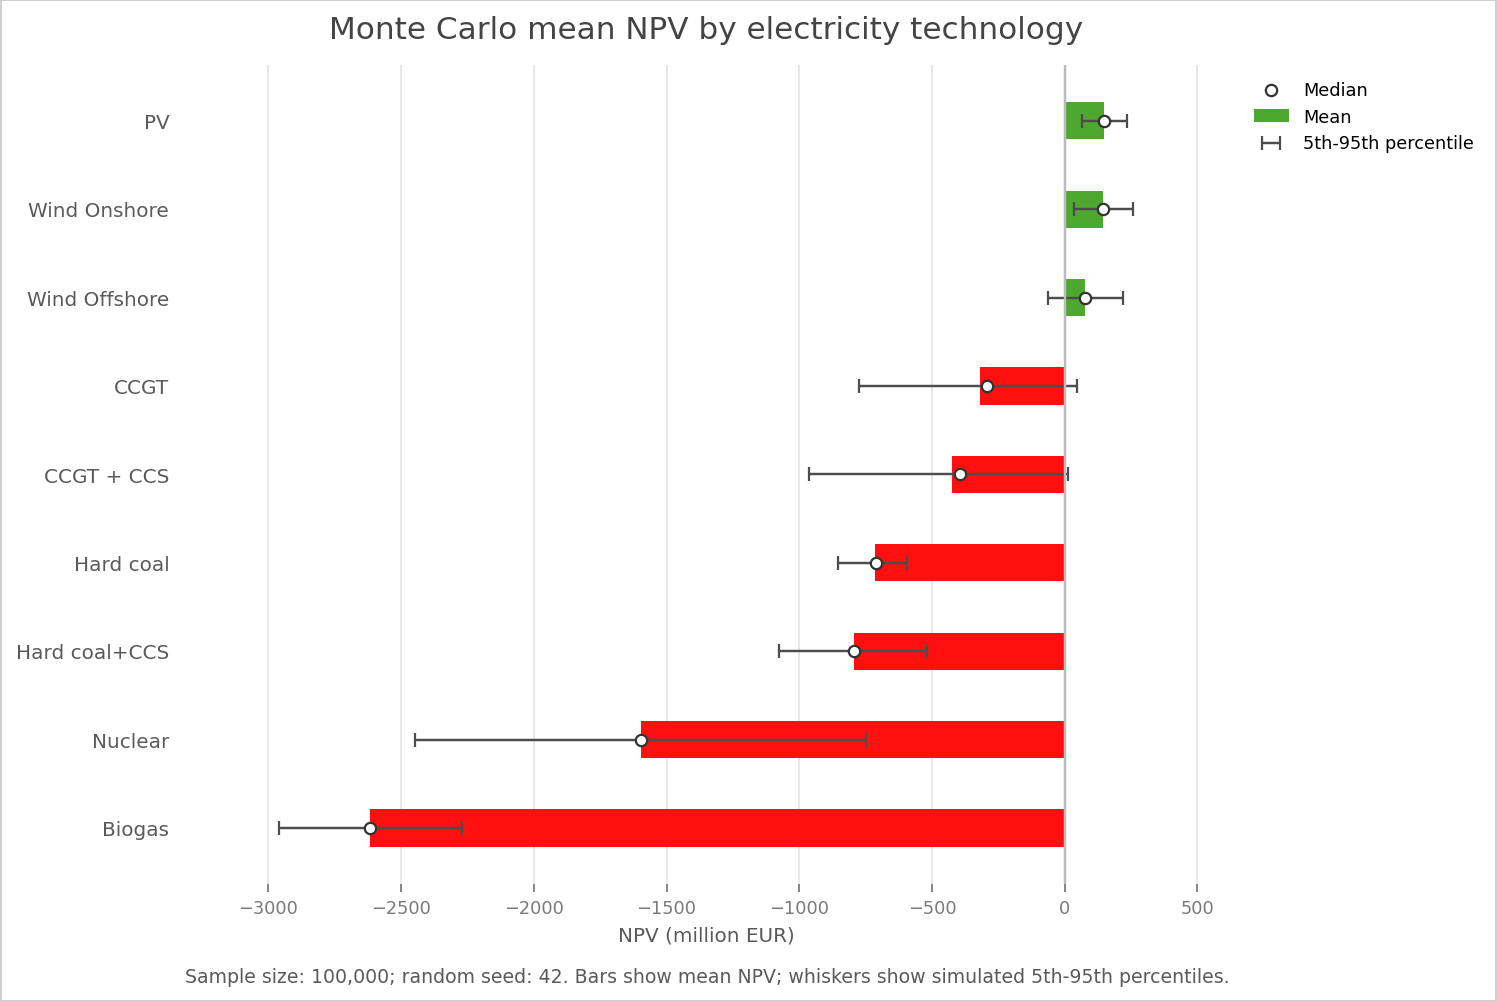
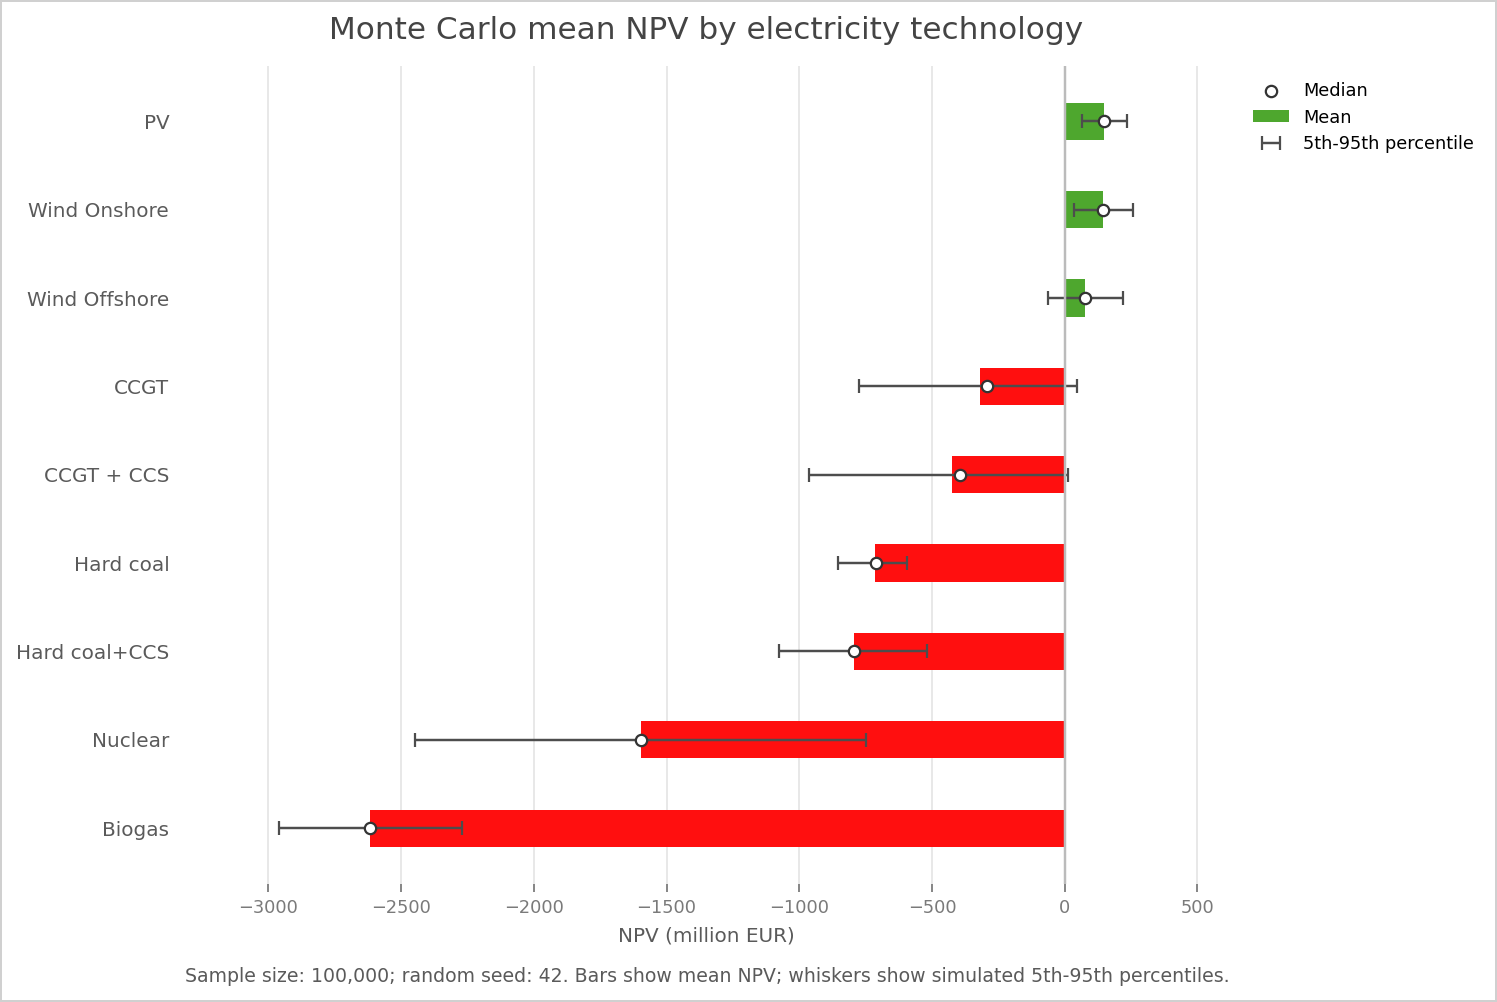
"Plotting and figure fine tunning"

diff --git a/src/electricity/electricity_npv_summary_figures.py b/src/electricity/electricity_npv_summary_figures.py
@@ -278,6 +278,7 @@ def save_electricity_mean_npv_outputs(
                 processed_data_dir=processed_data_dir,
                 run_date=output_date,
                 sector_name=sector_name,
+                random_seed=random_seed,
                 save_ranking_csv=save_ranking_csv,
                 save_ranking_plots=save_ranking_plots,
             )
@@ -327,6 +328,7 @@ def save_electricity_npv_ranking_outputs(
     processed_data_dir: Path,
     run_date: date | None = None,
     sector_name: str = "Electricity",
+    random_seed: int | None = None,
     save_ranking_csv: bool = True,
     save_ranking_plots: bool = True,
 ) -> tuple[Path, ...]:
@@ -365,6 +367,7 @@ def save_electricity_npv_ranking_outputs(
                     run_date=output_date,
                 ),
                 title="Monte Carlo NPV Ranking",
+                random_seed=random_seed,
             )
         )
 
@@ -403,6 +406,7 @@ def generate_electricity_npv_rankings(
             processed_data_dir=processed_data_dir or root / "data" / "processed",
             run_date=run_date,
             sector_name=sector_name,
+            random_seed=random_seed,
             save_ranking_csv=save_ranking_csv,
             save_ranking_plots=save_ranking_plots,
         )
@@ -635,6 +639,7 @@ def main() -> None:
                     raw_data_dir=args.raw_data_dir,
                     processed_data_dir=args.processed_data_dir,
                     sector_name=args.sector_name,
+                    random_seed=args.random_seed,
                     save_ranking_csv=save_ranking_csv,
                     save_ranking_plots=save_ranking_plots,
                 ),

diff --git a/src/npv_summary_plots.py b/src/npv_summary_plots.py
@@ -196,6 +196,7 @@ def plot_average_rank_bars(
     ranking_summary: pd.DataFrame,
     output_path: Path,
     title: str = "Monte Carlo NPV Ranking",
+    random_seed: int | None = None,
 ) -> Path:
     """Save an average-rank chart with rank-frequency counts."""
 
@@ -339,7 +340,8 @@ def plot_average_rank_bars(
         (
             f"Ranks are calculated within each Monte Carlo simulation by NPV "
             f"(rank 1 = highest NPV, rank {int(max_rank)} = lowest NPV). "
-            f"Sample size: {n_simulations:,} simulations."
+            f"Sample size: {n_simulations:,} simulations"
+            f"{f'; random seed: {random_seed}' if random_seed is not None else ''}."
         ),
         fontsize=8.5,
         color="#5a5a5a",

diff --git a/CHANGELOG.md b/CHANGELOG.md
@@ -1,3 +1,41 @@
+## 2026-06-04 17:27 — Add random seed note to ranking plot
+
+### User request
+
+Add the random seed to the Monte Carlo NPV ranking plot, like the mean NPV plot already does.
+
+### Files changed (if needed)
+
+- `src/npv_summary_plots.py` — added an optional `random_seed` argument to the ranking plot helper and included it in the explanatory note.
+- `src/electricity/electricity_npv_summary_figures.py` — passed the configured random seed through to the ranking plot helper.
+- `figures/2026-06-04-Average_NPV_Rank_Electricity.png` — regenerated the ranking figure with the seed note.
+- `CHANGELOG.md` — added this implementation entry.
+
+### What was implemented
+
+- Updated the bottom note of the ranking figure to include the random seed when one is provided.
+- Threaded `random_seed` through the electricity ranking-output generation paths, including CLI generation and programmatic generation.
+- Kept the ranking calculation and summary values unchanged.
+
+### Verification (if needed)
+
+- Commands run:
+  - `PYTHONPYCACHEPREFIX=/private/tmp/masterthesis_pycache PYTHONPATH=src /opt/anaconda3/envs/master-thesis/bin/python -m py_compile src/npv_summary_plots.py src/electricity/electricity_npv_summary_figures.py`
+  - `PYTHONPYCACHEPREFIX=/private/tmp/masterthesis_pycache MPLCONFIGDIR=/private/tmp/masterthesis_mpl PYTHONPATH=src /opt/anaconda3/envs/master-thesis/bin/python -m electricity.electricity_npv_summary_figures --kind mean --no-data --ranking-output plots`
+- Result:
+  - Passed.
+  - The regenerated ranking plot was visually inspected and now includes `random seed: 42` in the bottom explanatory note.
+
+### Reproducibility notes
+
+- No model assumptions, parameters, sample size, ranking logic, or NPV calculations were changed.
+- The regenerated ranking figure uses the default 100,000-simulation electricity run with seed `42`.
+- The command used `--no-data`, so no CSV outputs were regenerated.
+
+### Next suggested step
+
+Send the second requested change so it can be handled in the same focused way.
+
 ## 2026-06-04 17:16 — Reuse notebook-style uncertainty plot for mean NPV outputs
 
 ### User request